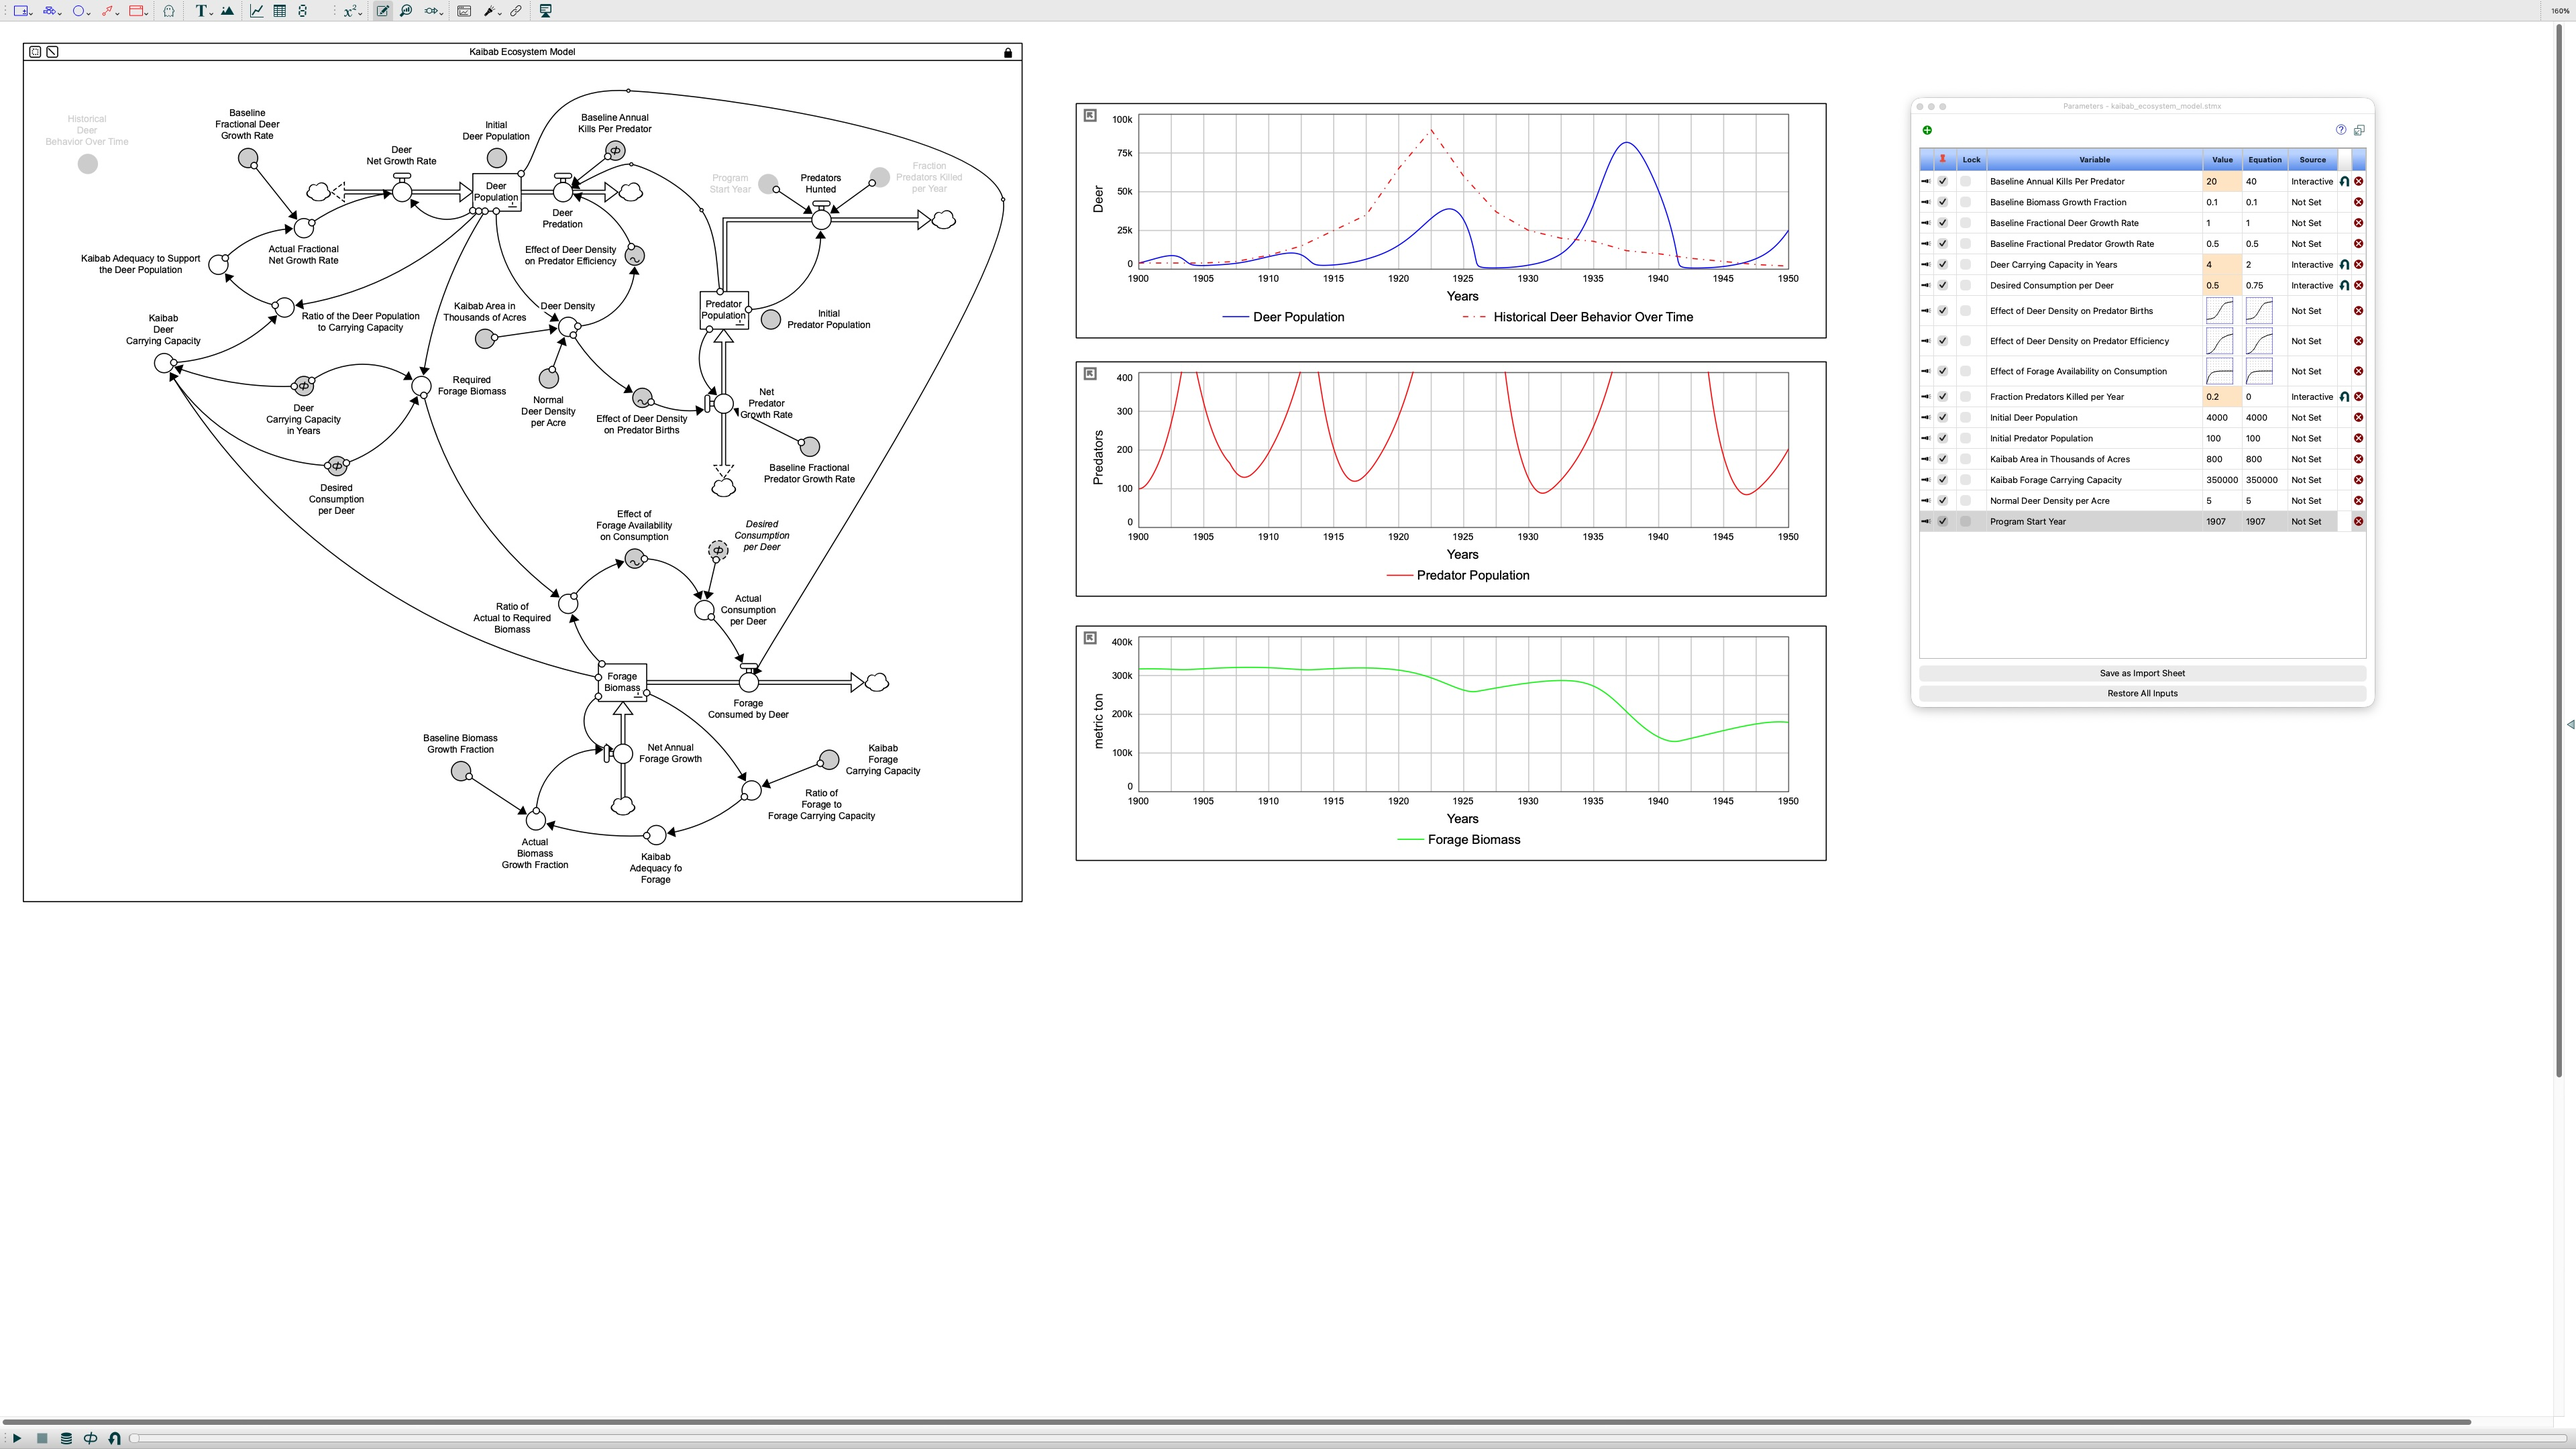
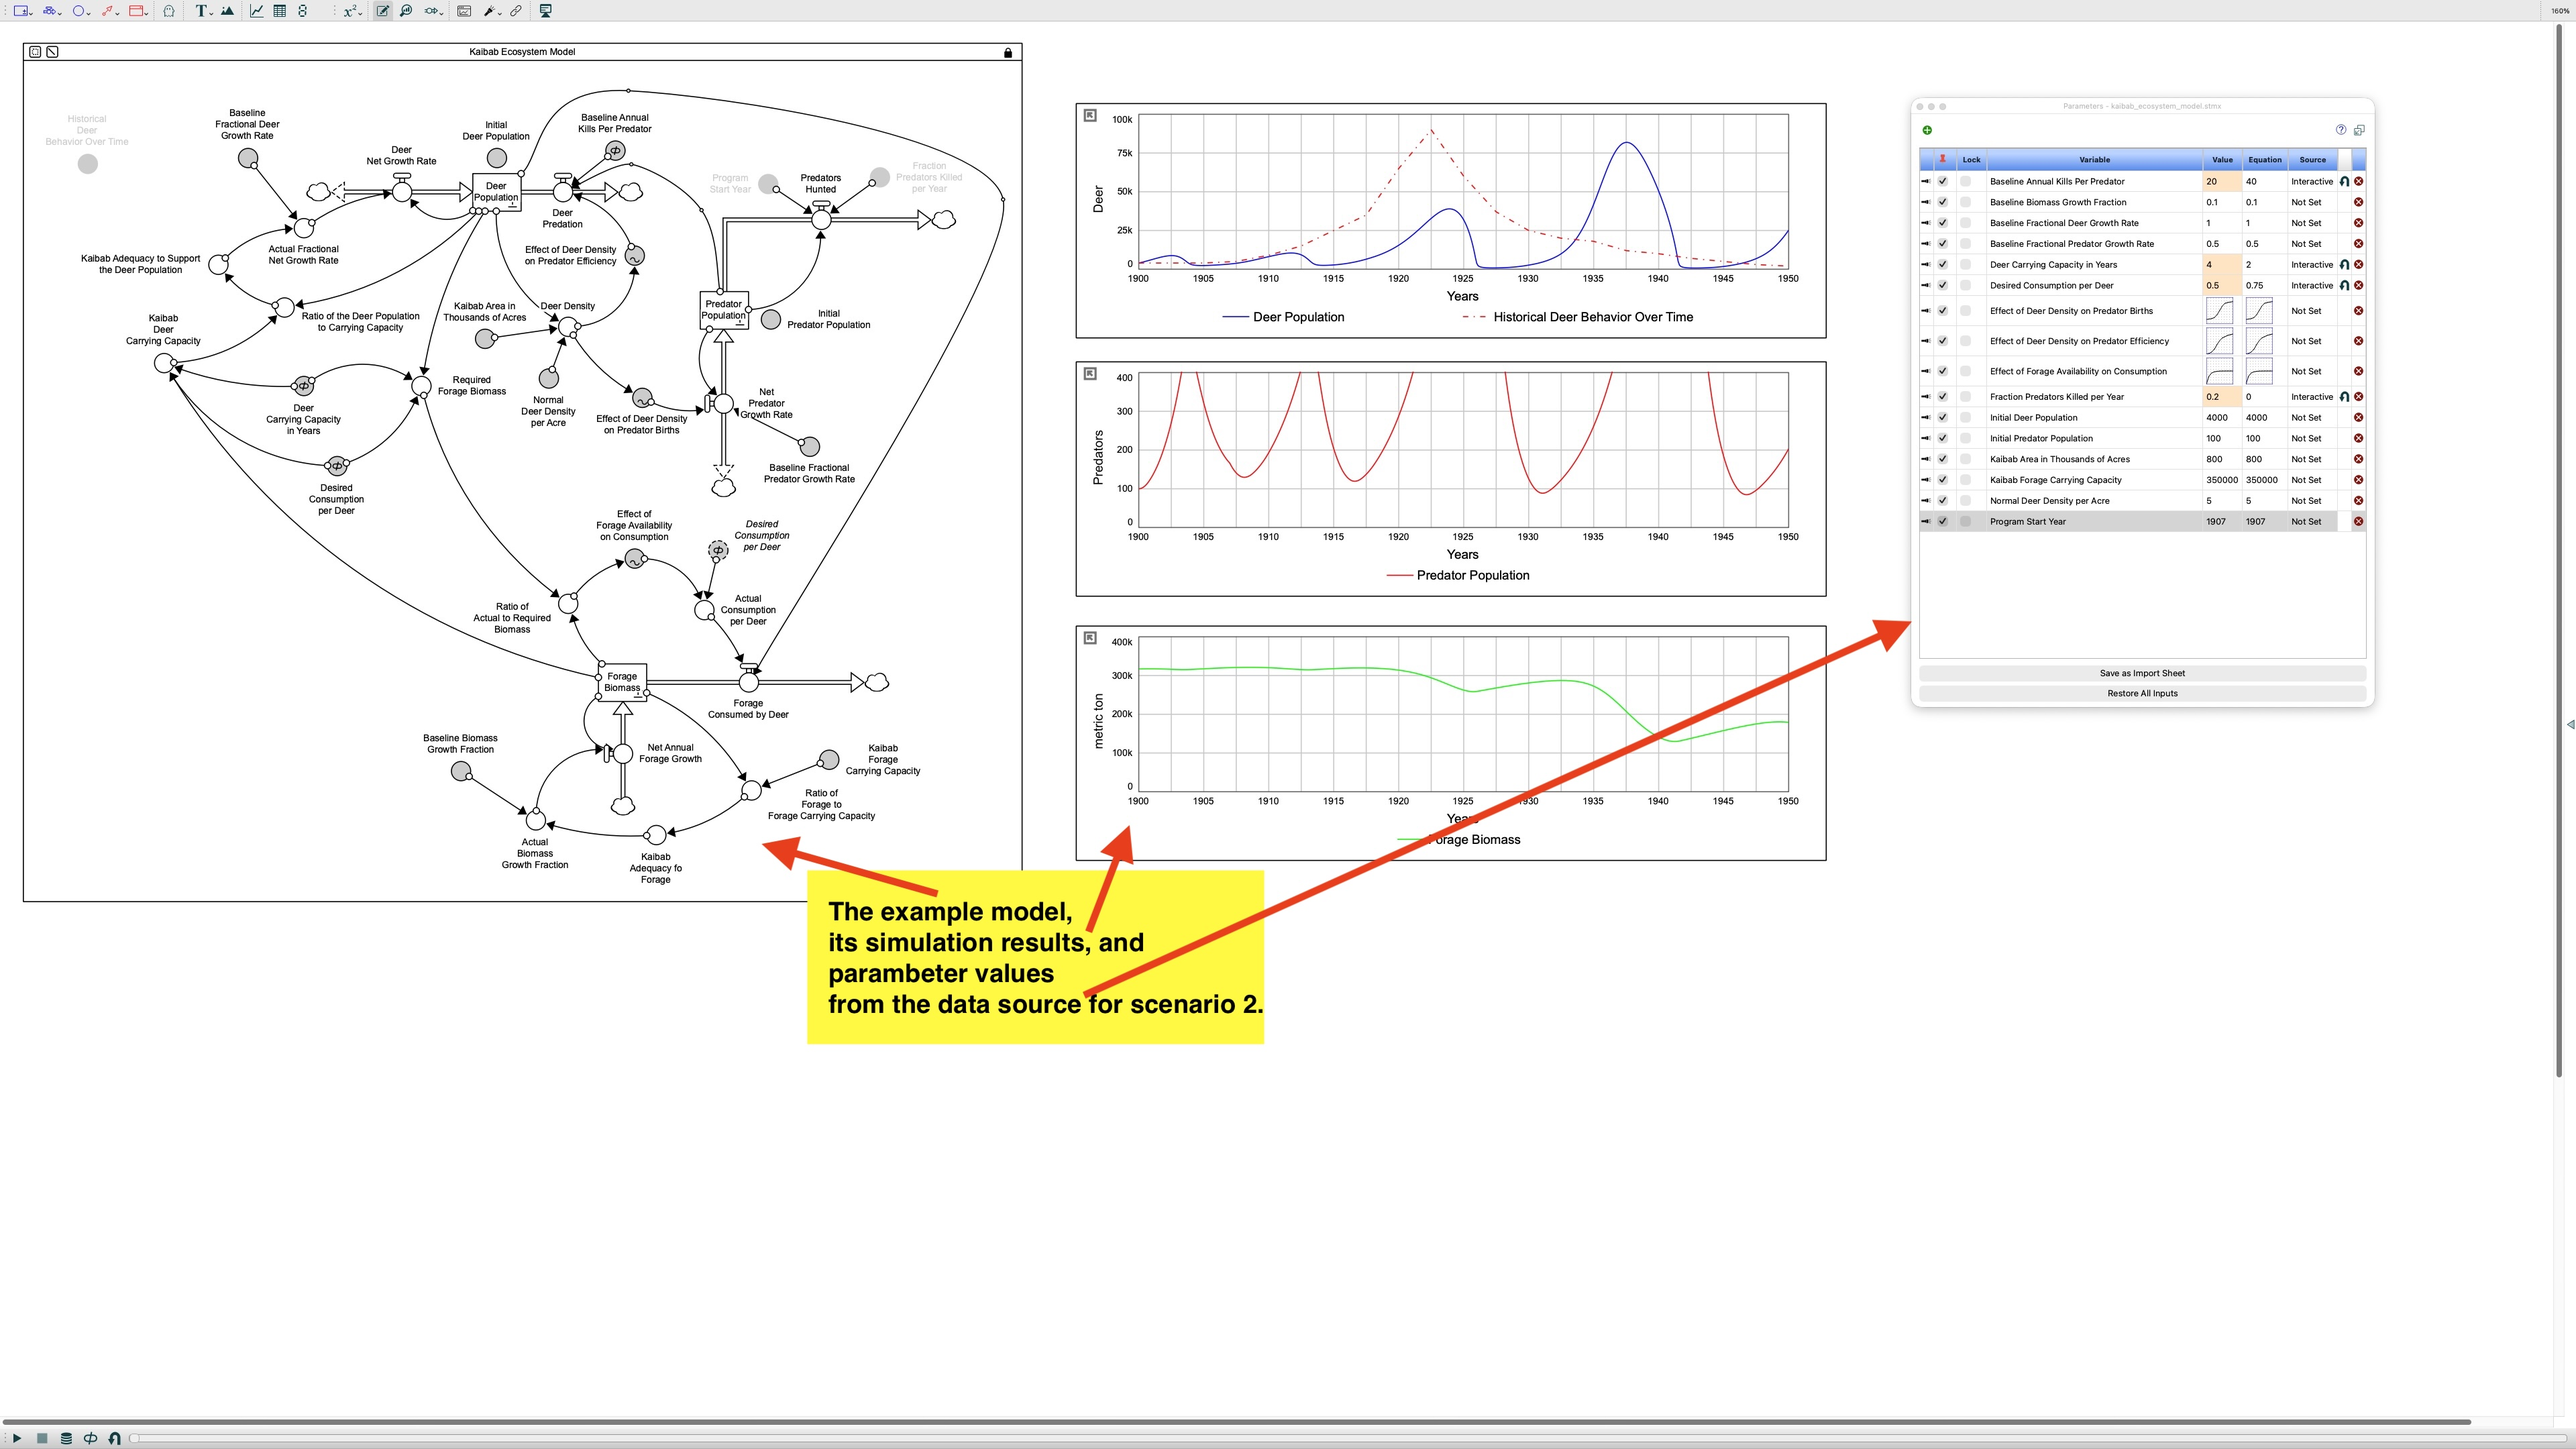
Add markup to screenshots and add references in docs

diff --git a/docs/kaibab_example.md b/docs/kaibab_example.md
@@ -45,6 +45,8 @@ model source in `models/config/lookups/` so they can be varied without editing t
 Predator removal is a policy switch: `Predators Hunted` is zero until `Program Start Year`, then
 removes `Fraction Predators Killed per Year` of the predator stock annually.
 
+The model structure is shown in ![Image of the example kaibab ecosystem model.](kaibab_ecosystem_model_stella.pdf)
+
 ## Simulation settings
 
 | Setting | Value |
@@ -57,9 +59,16 @@ removes `Fraction Predators Killed per Year` of the predator stock annually.
 
 These settings are part of the model definition.
 
+## Model Equations
+
+All equations used in the model have been [documented and exported with Stella](kaibab_ecosystem_doc_stella_equations.txt).
+
+![Figure. Model and equations for the example Kaibab Ecosystem Model. ](kaibab_ecosystem_screenshot_stella_scenario1.jpg)
+
+
 ## Default parameters
 
-Baseline values as given in Exhibit 4.11. They can be found in `models/config/parameters/basic_parameters.csv` and in `models/config/parameters/initial_stock_parameters.xlsx`.
+Baseline values as given in Exhibit 4.11. They can be found in `models/config/parameters/basic_parameters.csv` and in `models/config/parameters/initial_stock_parameters.xlsx`.  (For now, configurations for Stella are given in `kaibab_ecosystem_parameters_stella_scenario1.csv` and `kaibab_ecosystem_parameters_stella_scenario1.csv`.)
 
 | Parameter | Value | Unit |
 |-----------|-------|------|
@@ -84,4 +93,22 @@ With `Fraction Predators Killed per Year = 0` the predator-removal policy is ina
 
 `models/config/timeseries/historical_deer_botg.csv` holds the historical deer behaviour-over-time graph
 (estimated deer population 1900–1950) that the simulated `Deer Population` is compared against.
+
+## Simulation Results
+
+The example provides configurations for two scenarios. The initial scenario is in equilibrium without intervention.
+
+![Figure. Model, parameter values, and simulation results of the initial scenario for the example Kaibab Ecosystem Model.](kaibab_ecosystem_screenshot_stella_scenario1.jpg)
+
+The [simulation results](../results/kaibab_ecosystem_results_stella_scenario1.csv) are exported into a `.csv` file in the `../results/` folder.
+
+![Figure. Graphs for the simulation results for the initial scenario for the example Kaibab Ecosystem Model.](../results/figs/kaibab_ecosystem_fig_stella_scenario1.pdf)
+
+In the second scenario, an intervention -- hunting predators -- is introduced and disturbs the equilibrium.
+
+[Figure. Model, parameter values, and simulation results of the second scenario for the example Kaibab Ecosystem Model. ](kaibab_ecosystem_screenshot_stella_scenario2.jpg)
+
+The [simulation results](../results/kaibab_ecosystem_results_stella_scenario2.csv) are exported into a `.csv` file in the `../results/` folder.
+
+![Figure. Graphs for the simulation results for the initial scenario for the example Kaibab Ecosystem Model.](../results/figs/kaibab_ecosystem_fig_stella_scenario2.pdf)
 
